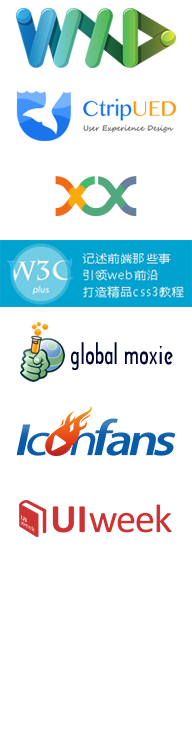
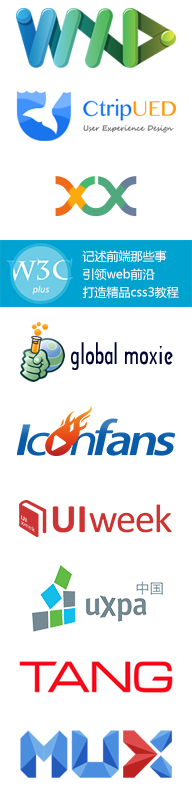
新增视觉嘉宾和赞助商

diff --git a/index.html b/index.html
@@ -86,7 +86,7 @@
 					<div class="speaker">
 						<img src="images/speaker-santong.png" alt="三通" class="speaker-avatar" />
 						<h3 class="speaker-name">三通</h3>
-						<div class="speaker-title">主题待定</div>
+						<div class="speaker-title">快速产品节奏下的无线设计实践</div>
 						<p class="speaker-keynote">
 							毕志卫（淘宝花名：三通）是原淘宝网用户体验设计师，高级视觉设计专家，从事设计11年。现为阿里无线UED团队（MIX）负责人。关注的领域为：创新设计，如何让技术为人服务； 设计管理，如何有效地整合各种要素，传递有价值的设计。
 						</p>
@@ -251,10 +251,10 @@
 						<time>13:30</time>
 						<div class="line"></div>
 						<div class="speaker">
-							<img src="images/speaker-avatar.png" alt="speaker" class="speaker-avatar" />
-							<h3 class="speaker-name">嘉宾待定</h3>
+							<img src="images/speaker-yingjunjiu.png" alt="应骏赳" class="speaker-avatar" />
+							<h3 class="speaker-name">应骏赳</h3>
 							<div class="speaker-title">主题待定</div>
-							<p class="speaker-keynote">分享内容待定</p>
+							<p class="speaker-keynote">应骏赳，百度 MUX 资深界面设计师，曾供职于惠普负责打印机界面设计，著名界面博客图月志的博主。</p>
 						</div>
 					</li>
 					<li>
@@ -299,13 +299,16 @@
 	<div class="map" style="background:url(images/zzz-map.png) no-repeat center center;background-size:auto 400px;"></div>
 	<div class="sponsors">
 		<div class="wrap">
-			<a href="http://wxd.ctrip.com/" class="sponsor-wxd" title="携程WXD">携程WXD</a>
-			<a href="http://ued.ctrip.com/" class="sponsor-ued" title="携程UED">携程UED</a>
-			<a href="http://www.w3cplus.com/" class="sponsor-w3cplus" title="W3CPlus">W3CPlus</a>
-			<a href="http://http://globalmoxie.com/" class="sponsor-globalmoxie" title="global moxie">global moxie</a>
-			<a href="http://xux.taobao.com/" class="sponsor-xux" title="阿里XUX">阿里XUX</a>
-			<a href="http://www.iconfans.org/" class="sponsor-iconfans" title="UI中国">UI中国</a>
-			<a href="http://www.uiweek.com/" class="sponsor-uiweek" title="UIweek">UIweek</a>
+			<a href="http://wxd.ctrip.com/" class="sponsor-wxd" title="携程WXD" target="_blank">携程WXD</a>
+			<a href="http://ued.ctrip.com/" class="sponsor-ued" title="携程UED" target="_blank">携程UED</a>
+			<a href="http://www.w3cplus.com/" class="sponsor-w3cplus" title="W3CPlus" target="_blank">W3CPlus</a>
+			<a href="http://http://globalmoxie.com/" class="sponsor-globalmoxie" title="global moxie" target="_blank">global moxie</a>
+			<a href="http://xux.taobao.com/" class="sponsor-xux" title="阿里XUX" target="_blank">阿里XUX</a>
+			<a href="http://mux.baidu.com/" class="sponsor-mux" title="百度MUX" target="_blank">百度MUX</a>
+			<a href="http://www.iconfans.org/" class="sponsor-iconfans" title="UI中国" target="_blank">UI中国</a>
+			<a href="http://www.uiweek.com/" class="sponsor-uiweek" title="UIweek" target="_blank">UIweek</a>
+			<a href="http://www.tang-consulting.com/" class="sponsor-tang" title="唐硕咨询" target="_blank">唐硕咨询</a>
+			<a href="http://www.upachina.org/" class="sponsor-uxpa" title="UXPA中国" target="_blank">UXPA中国</a>
 		</div>
 	</div>
 	<footer>

diff --git a/styles/dft.css b/styles/dft.css
@@ -58,7 +58,7 @@ header a { color: #fff; text-decoration: underline; }
 .ws-tab li { position: relative; float: left; width: 33.3%; text-align: center; }
 .ws-tab a { display: inline-block; width: 180px; height: 60px; line-height: 60px; border-radius: 60px; background: #a5b4c6; font-size: 20px; color: #fff; text-align: center; }
 .schedule-ws.fe .tab-fe, .schedule-ws.ix .tab-ix, .schedule-ws.ur .tab-ur, .schedule-ws.vd .tab-vd { position: relative; background: #2a99dd; }
-.schedule-ws.fe .tab-fe:after, .schedule-ws.ix .tab-ix:after, .schedule-ws.ur .tab-ur:after, .schedule-ws.vd .tab-vd:after { position: absolute; content: "♦"; left: 50%; bottom: -50%; margin-left: -8px; margin-bottom: 2px; font-size: 36px; color: #2a99dd; }
+.schedule-ws.fe .tab-fe:after, .schedule-ws.ix .tab-ix:after, .schedule-ws.ur .tab-ur:after, .schedule-ws.vd .tab-vd:after { position: absolute; content: "♦"; left: 50%; bottom: -50%; margin-left: -9px; margin-bottom: 2px; font-size: 36px; color: #2a99dd; }
 .ws-fe, .ws-ix, .ws-ur, .ws-vd { display: none; transition: all ease-in 100ms; }
 .schedule-ws.fe .ws-fe, .schedule-ws.ix .ws-ix, .schedule-ws.ur .ws-ur, .schedule-ws.vd .ws-vd { display: block; }
 .schedule-ws .tip { font-size: 16px; color: #f00; }
@@ -74,6 +74,9 @@ header a { color: #fff; text-decoration: underline; }
 .sponsors .sponsor-globalmoxie { background-position: 0 -320px; }
 .sponsors .sponsor-iconfans { background-position: 0 -400px; }
 .sponsors .sponsor-uiweek { background-position: 0 -480px; }
+.sponsors .sponsor-uxpa { background-position: 0 -560px; }
+.sponsors .sponsor-tang { background-position: 0 -640px; }
+.sponsors .sponsor-mux { background-position: 0 -720px; }
 
 footer { padding: 60px 0; background: #f0f0f0; font-size: 16px; font-weight: 100; }
 .footer-contact { float: right; }
@@ -128,4 +131,5 @@ footer { padding: 60px 0; background: #f0f0f0; font-size: 16px; font-weight: 100
 	.speaker .speaker-title { display: none; }
 	.ws-tab { padding: 40px 0; }
 	.ws-tab a { width: 64px; height: 40px; line-height: 40px; font-size: 12px; }
+	.schedule-ws.fe .tab-fe:after, .schedule-ws.ix .tab-ix:after, .schedule-ws.ur .tab-ur:after, .schedule-ws.vd .tab-vd:after { margin-left: -7px; font-size: 24px; }
 }
